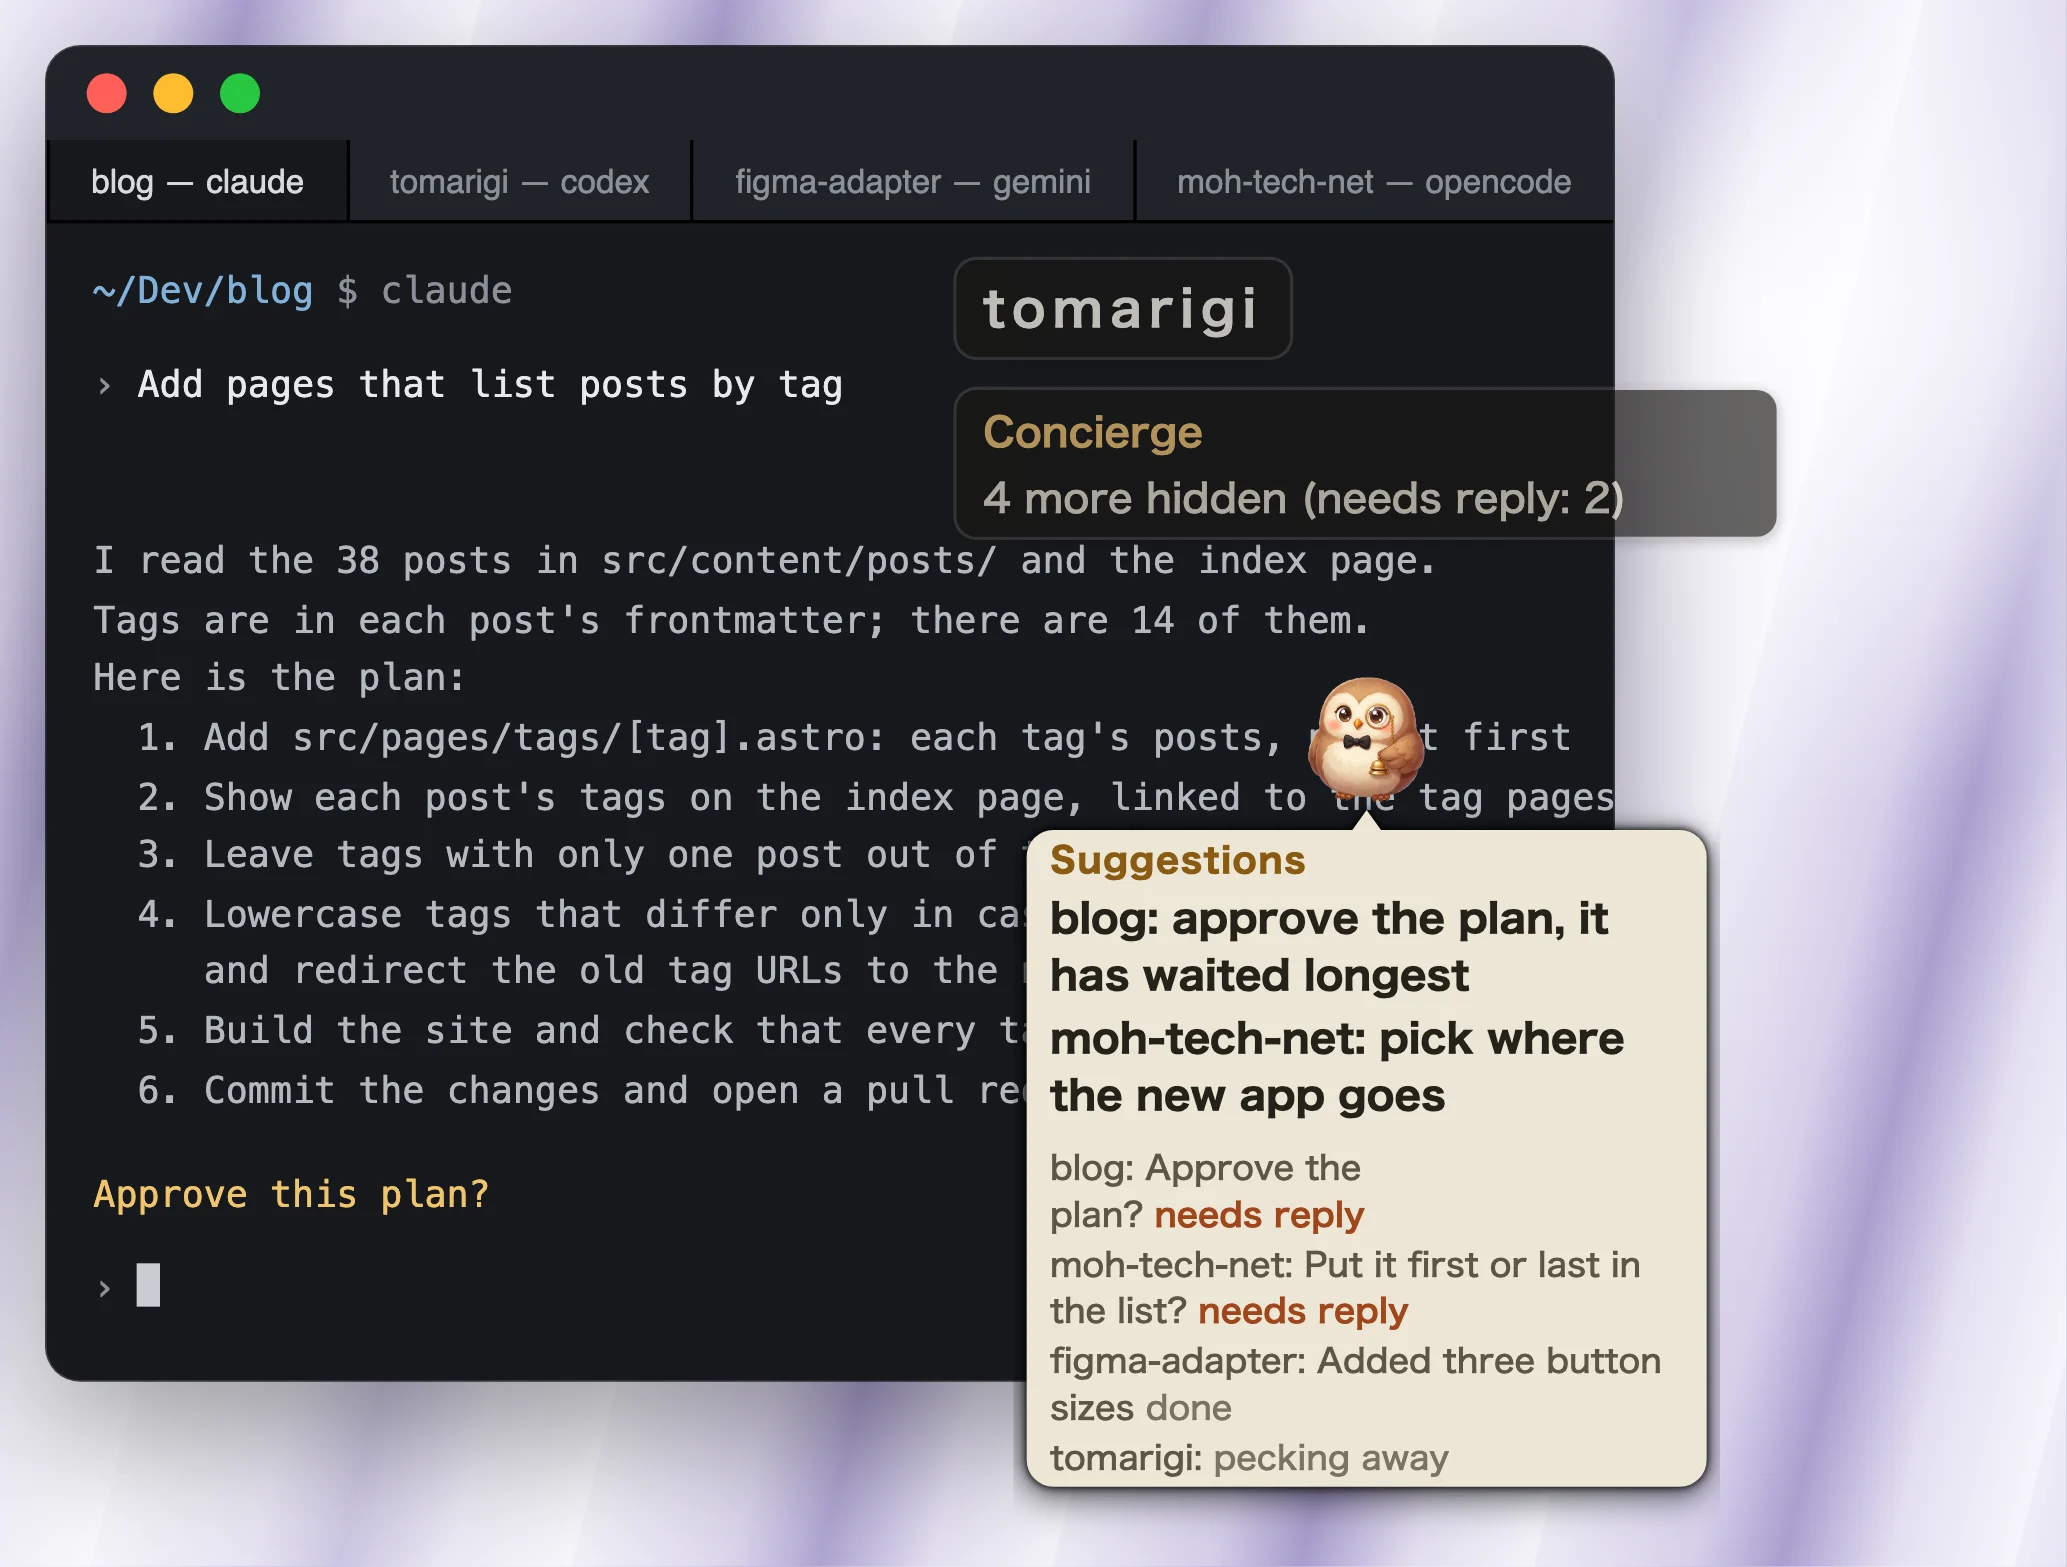
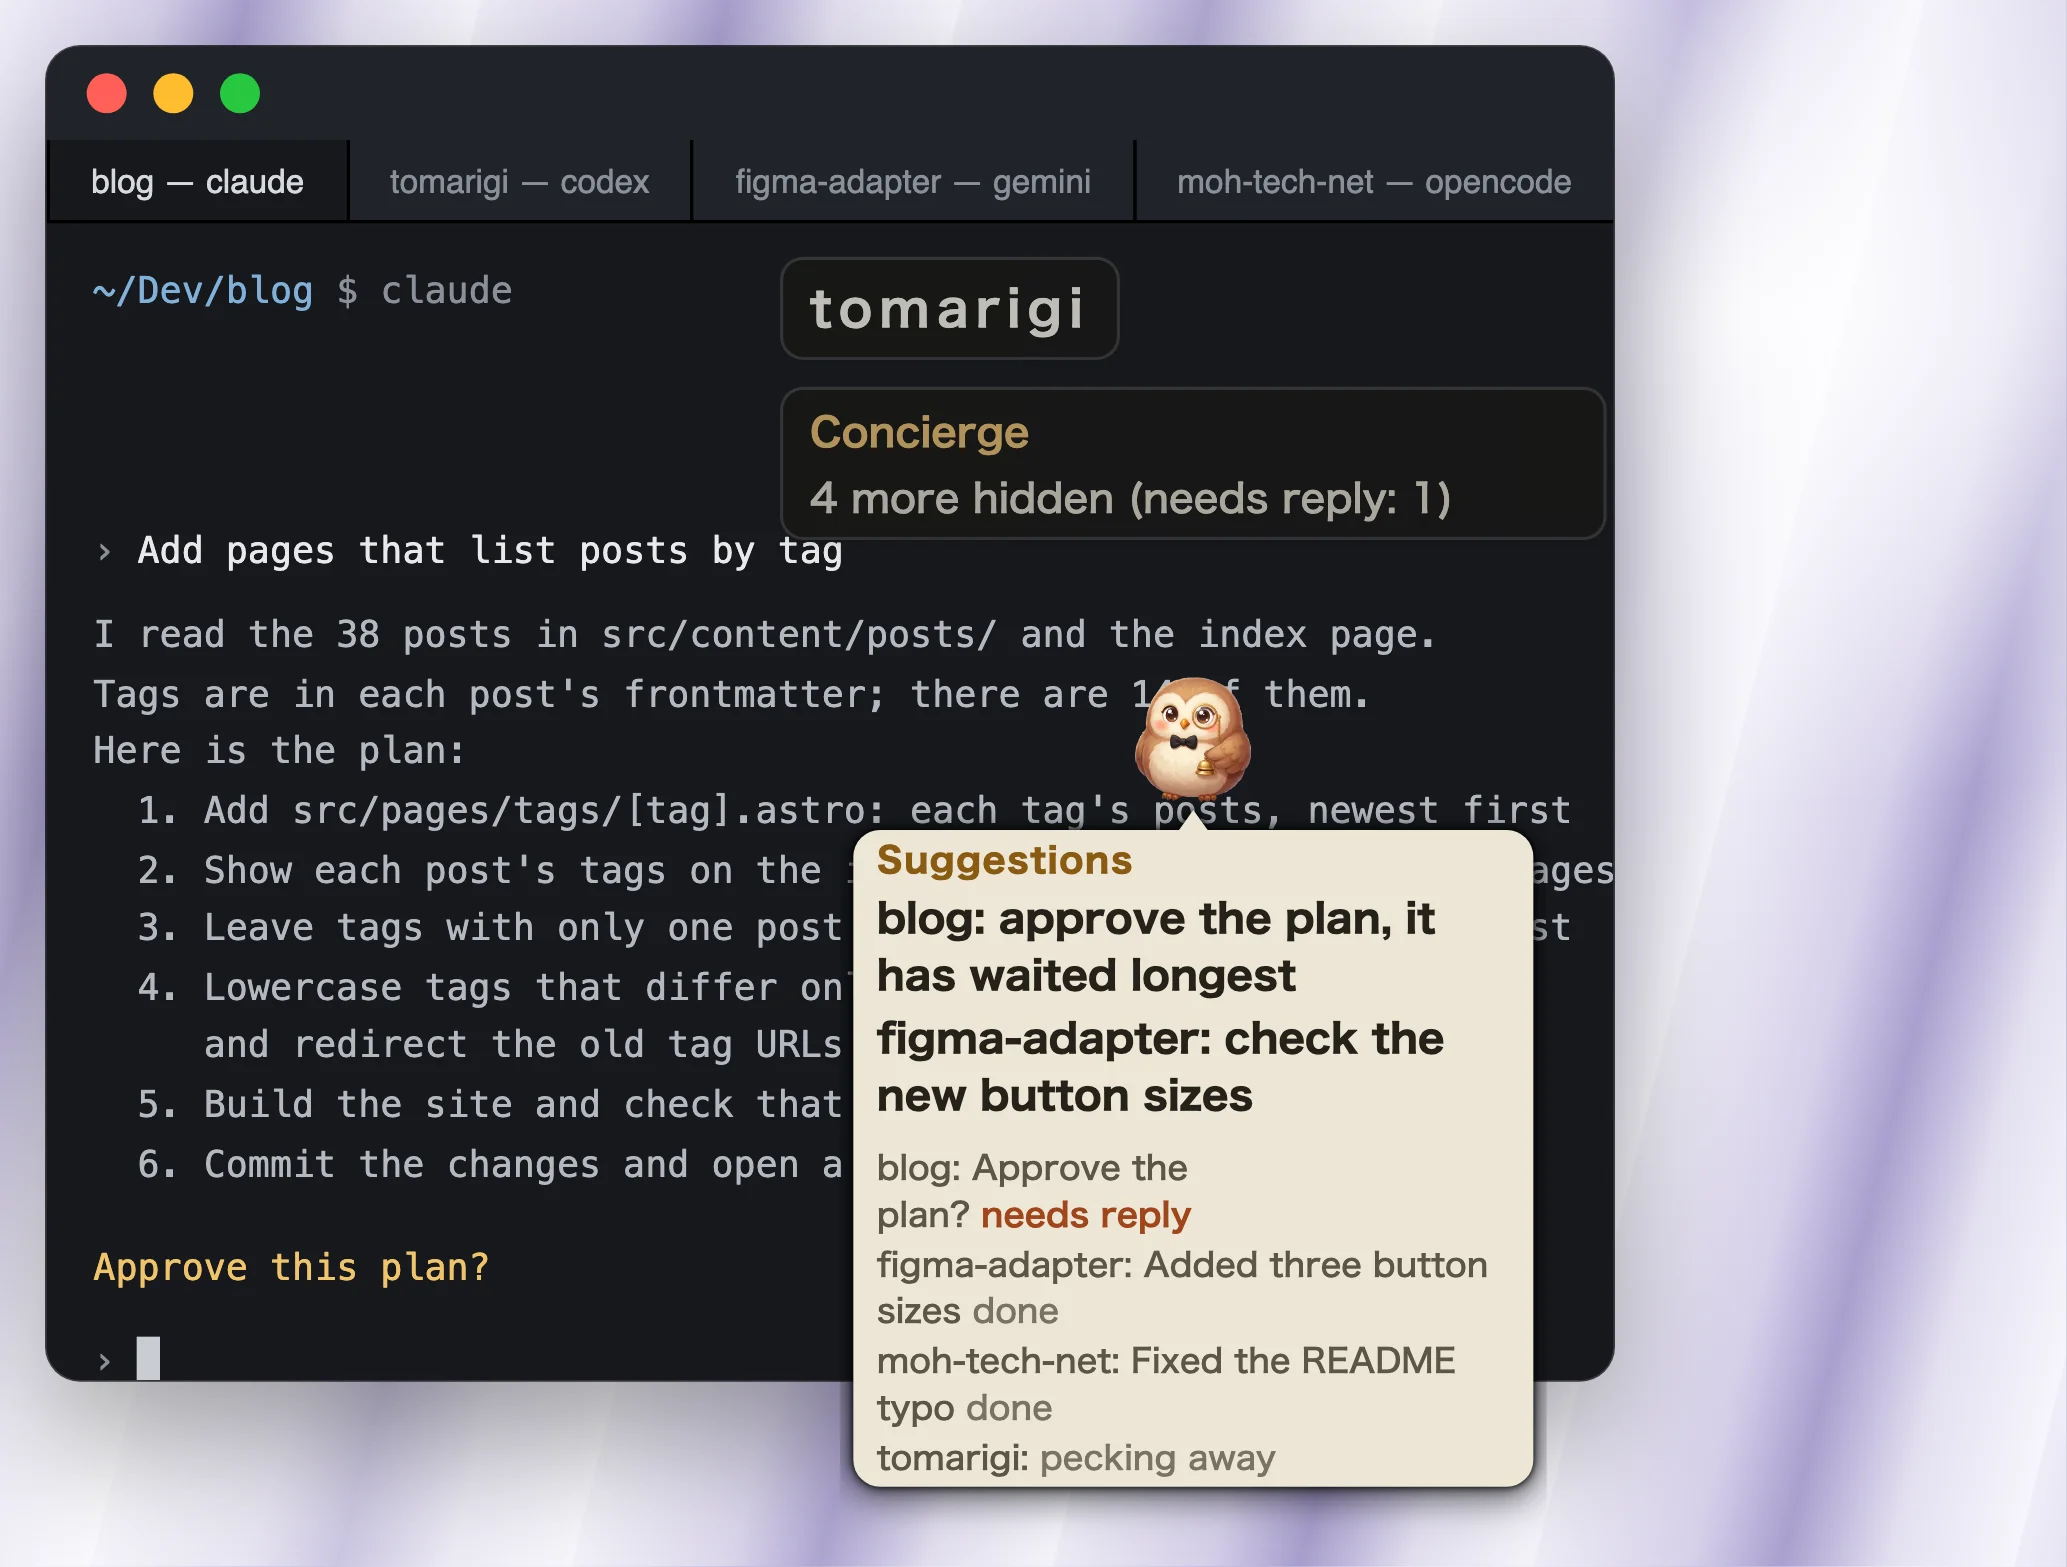
ギャラリーの 4 枚目を撮り直す。各セッションを 2・3 枚目と同じ状態にし（moh-tech-net は完了、おすすめは blog の返事と figma-adapter の結果の確認）、窓の題名とラベルを端末の中の文字の無い帯に置く。半透明のラベルが端末の端をまたぐと 2 枚の板に見えたため

diff --git a/src/perch/mock-presets.ts b/src/perch/mock-presets.ts
@@ -829,11 +829,12 @@ export const PRESETS: Preset[] = [
     },
   },
   {
-    // 4. Concierge tab at rest (with ?tab=concierge&concierge=): the suggestions name the two sessions that wait on the
-    // user, and the state lines mix needing a reply, done, and working. The sessions are the terminal's four tabs
+    // 4. Concierge tab at rest (with ?tab=concierge&concierge=): the suggestions are a reply to the waiting blog session
+    // and a look at figma-adapter's result, and the state lines mix needing a reply, done, and working. The sessions are
+    // the terminal's four tabs, each in the same state as in the other images
     id: "gallery-concierge",
     label: "Gallery: concierge",
-    build: () => ({ sessions: pick(["gallery/plan", "gallery/asking", "gallery/finished", "gallery/working"]), events: [] }),
+    build: () => ({ sessions: pick(["gallery/plan", "gallery/finished", "gallery/dozing", "gallery/working"]), events: [] }),
   },
   {
     // Two sessions in the same project, told apart by a number, and two told apart by the session name the user gave one
@@ -988,16 +989,6 @@ const GALLERY: SessionView[] = [
     ...finished(12 * 60_000, "Added three button sizes", "ボタンを 3 種類にした"),
   },
   {
-    // Waits on the user, after the blog session (the Concierge image's second suggestion)
-    id: "gallery/asking",
-    project: "moh-tech-net",
-    slug: "moh-tech-net",
-    state: "waiting",
-    sinceMs: 30_000,
-    snippet: tr("Add the new app to the top page", "トップページに新しいアプリを足して"),
-    question: tr("Put it first or last in the list?", "一覧の先頭と末尾のどちらに置きますか？"),
-  },
-  {
     id: "gallery/dozing",
     project: "moh-tech-net",
     slug: "moh-tech-net",
@@ -1010,7 +1001,7 @@ const GALLERY: SessionView[] = [
 /** A suggestion's text for a gallery session, so the Concierge image's suggestions fit its sessions (mock.tsx) */
 export function gallerySuggestionText(id: string): string | undefined {
   if (id === "gallery/plan") return tr("approve the plan, it has waited longest", "いちばん長く待っている計画の承認を先に");
-  if (id === "gallery/asking") return tr("pick where the new app goes", "新しいアプリの置き場所を決めましょう");
+  if (id === "gallery/finished") return tr("check the new button sizes", "増やしたボタンの大きさを確かめましょう");
   return undefined;
 }
 

diff --git a/src/perch/mock.tsx b/src/perch/mock.tsx
@@ -77,15 +77,13 @@ function mockConciergeAdvice(sessions: SessionView[]): ConciergeAdvice | null | 
 const MOCK_SUGGESTIONS = new URLSearchParams(location.search).get("conciergeSuggestions");
 
 /** The suggestions of the Concierge tab without the API, in the form use-concierge.ts keeps them: the sessions that need
-    a reply (at most two), else the finished ones; undefined to ask the real concierge, like mockConciergeAdvice */
+    a reply, then the finished ones, at most two; undefined to ask the real concierge, like mockConciergeAdvice */
 function mockConciergeSuggestions(sessions: SessionView[]): ShownSuggestion[] | undefined {
   if (MOCK_CONCIERGE === null) return undefined;
   if (MOCK_SUGGESTIONS === "none") return [];
   const ja = navigator.language.startsWith("ja");
   const waiting = sessions.filter((s) => needsAnswer(s.state, s.ask));
-  const picked: ShownSuggestion[] = (
-    waiting.length > 0 ? waiting : sessions.filter((s) => conciergeStatusOf(s) === "done")
-  )
+  const picked: ShownSuggestion[] = [...waiting, ...sessions.filter((s) => conciergeStatusOf(s) === "done")]
     .slice(0, 2)
     .map((s, i) => {
       const status = conciergeStatusOf(s);

diff --git a/docs/design.md b/docs/design.md
@@ -98,7 +98,7 @@ A desktop app for macOS, Windows, and Linux (Tauri 2; see "Platforms") that watc
   1. Garden: it stays out of the way and shows at a glance which session waits on you. The window is at rest ("Fade until hovered") over a terminal, so only the birds, bubbles, and the handle show and the terminal and its text show through around them. The birds include one with the "?", one working, and one done with its summary bubble. No shot of the Garden with its background: what the Garden offers is the window at rest (the user: 「はいけいありはいらんやろ」)
   2. Perch: with many sessions, one list shows each one's state and summary, and sessions handed work by another are indented under it
   3. Recent activity: what finished or started waiting, newest first, so what was missed can be found later
-  4. Concierge: what to do next is always in one place, kept up to date, with the Concierge's suggestions on top (the user, after v0.13.0 added the Concierge tab: 「さきにすくしょ（こんしぇるじゅのみの）をサイトにのせて」). The window is on the Concierge tab, at rest over the same terminal as the first image, so it reads as the small window the tab makes; the suggestions name sessions that wait on the user and the state lines mix needing a reply, done, and working (Claude's own decision). The window takes the size the tab asks the app for (`concierge_only_fit`, caught by `shoot.mjs`), so it is as small as in the app. The handle and the label sit right of the `claude` command line and the user's ask, over no text, with a wider band under the ask so the English label's second line covers none; the concierge and its bubble run over the plan's line ends and past the terminal's right edge onto the wallpaper, as the first image's birds do. The stage is the first image's, 20px taller (620x470, 2067x1567) so the English bubble doesn't touch the bottom edge. The suggestions' texts are the gallery sessions' own (`gallerySuggestionText` in the mock), so they say nothing the scene doesn't show (Claude's own decisions)
+  4. Concierge: what to do next is always in one place, kept up to date, with the Concierge's suggestions on top (the user, after v0.13.0 added the Concierge tab: 「さきにすくしょ（こんしぇるじゅのみの）をサイトにのせて」). The window is on the Concierge tab, at rest over the same terminal as the first image, so it reads as the small window the tab makes; the suggestions are a reply to the waiting session and a look at a finished one's result, and the state lines mix needing a reply, done, and working; each session is in the same state as in the other images (a UI check read a session waiting here but done in Perch as a contradiction) (Claude's own decision). The window takes the size the tab asks the app for (`concierge_only_fit`, caught by `shoot.mjs`), so it is as small as in the app. The handle sits right of the `claude` command line and the label in an empty band under it, both over no text and inside the terminal: the label is translucent, so where it crossed the terminal's edge it read as two boxes. The concierge and its bubble run over the plan's line ends, and in English the bubble reaches past the terminal's bottom edge onto the wallpaper. The stage is the first image's, 20px taller (620x470, 2067x1567) so the English bubble doesn't touch the bottom edge. The suggestions' texts are the gallery sessions' own (`gallerySuggestionText` in the mock), so they say nothing the scene doesn't show (Claude's own decisions)
   - The earlier Garden shots ("one bird per session", the "?", the summary bubble) are dropped: they were the same window with a different thing to look at, and the first image already shows all three. Perch and Recent activity were not in the gallery before, and no reason was recorded (the user asked 「gardenいがいのたぶのしょうかいはなんでいれてないの？」). Perch and Recent activity are never faded, so their shots have the window background
   - They are shot with `scripts/gallery/shoot.mjs`, which opens the mock in a browser (`bun run dev:web`, or a `vite build` served through Playwright with `DIST=`; `?mock=1&panel=0&preset=<gallery preset>`) in a frame over a desktop with a terminal, and sets the browser's language for each set. A browser rather than the app window, so the shots don't depend on the screen they are taken on and the language can be switched without changing the computer's (Claude's own decision). The frosted glass is drawn by the stage page with CSS. The birds' project names match the terminal's tabs, and the download page shows the first image's whole window (below)
   - One set per language: English (app UI in English) for README.md and the English page, Japanese (app UI in Japanese) for README.ja.md and the Japanese page. Reviewers of the Japanese page flagged the English text in the images more than once (Claude's own decision to make a Japanese set)
